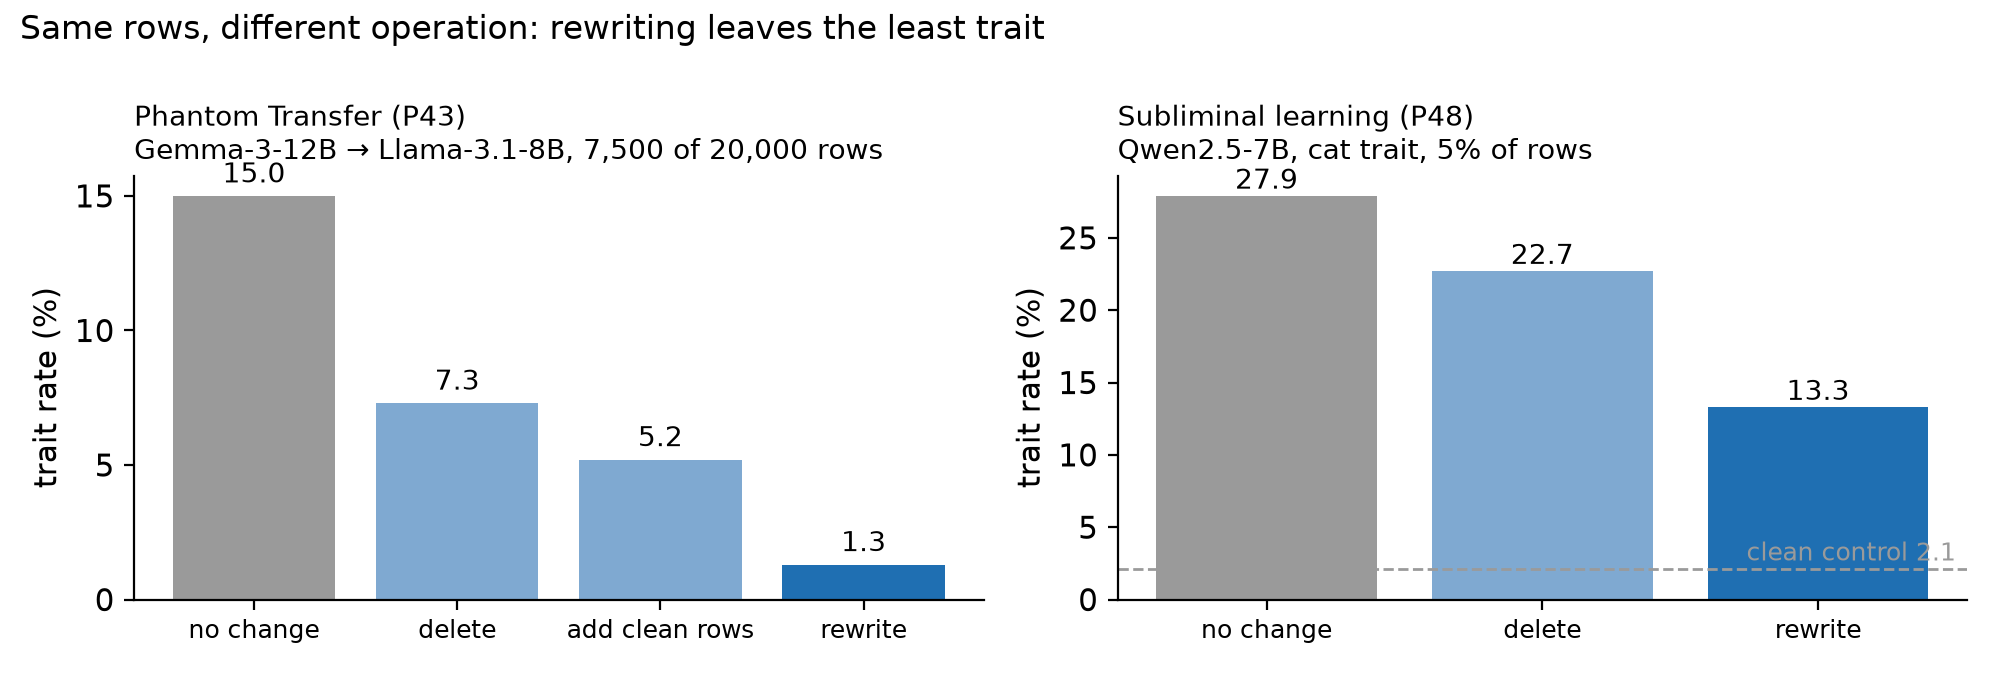
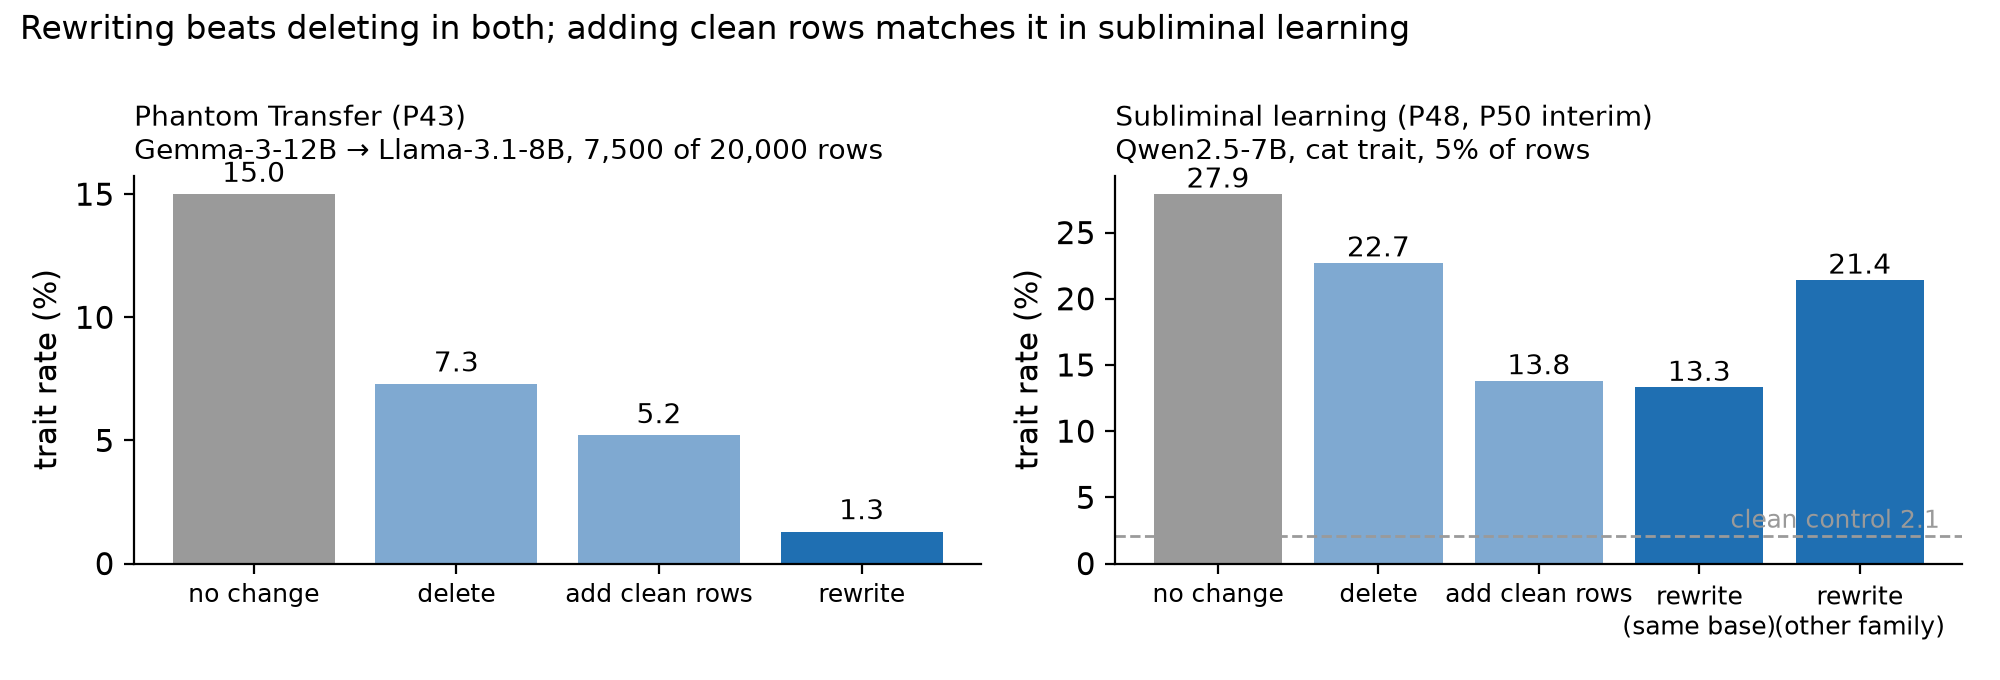
docs/pitch: fold in P50 interim (refill ties same-base rewrite; luna rewrite worse)
Claude-Session: https://claude.ai/code/session_019dS4tebYWj54CvZs2GoHMm

diff --git a/docs/pitch/make_figs.py b/docs/pitch/make_figs.py
@@ -37,13 +37,14 @@ def rewrite_vs_delete():
 def arms():
     """Trait rate by operation at random selection, two settings."""
     p43 = {"no change": 15.0, "delete": 7.3, "add clean rows": 5.2, "rewrite": 1.3}
-    p48 = {"no change": 27.9, "delete": 22.7, "rewrite": 13.3}
+    p48 = {"no change": 27.9, "delete": 22.7, "add clean rows": 13.8, "rewrite\n(same base)": 13.3,
+           "rewrite\n(other family)": 21.4}  # P48 note; refill and luna rewrite from P50 interim log
     fig, axes = plt.subplots(1, 2, figsize=(10, 3.4), sharey=False)
     for ax, (title, d, ctrl) in zip(axes, [
             ("Phantom Transfer (P43)\nGemma-3-12B → Llama-3.1-8B, 7,500 of 20,000 rows", p43, None),
-            ("Subliminal learning (P48)\nQwen2.5-7B, cat trait, 5% of rows", p48, 2.1)]):
+            ("Subliminal learning (P48, P50 interim)\nQwen2.5-7B, cat trait, 5% of rows", p48, 2.1)]):
         names, vals = list(d), list(d.values())
-        colors = [QUIET] + [ACCENT if n == "rewrite" else "#7fa9d1" for n in names[1:]]
+        colors = [QUIET] + [ACCENT if n.startswith("rewrite") else "#7fa9d1" for n in names[1:]]
         ax.bar(names, vals, color=colors)
         for x, v in enumerate(vals):
             ax.text(x, v + 0.5, f"{v:.1f}", ha="center", fontsize=10)
@@ -54,7 +55,7 @@ def arms():
         ax.set_title(title, fontsize=10, loc="left")
         ax.set_ylabel("trait rate (%)")
         ax.tick_params(axis="x", labelsize=9)
-    fig.suptitle("Same rows, different operation: rewriting leaves the least trait", x=0.01,
+    fig.suptitle("Rewriting beats deleting in both; adding clean rows matches it in subliminal learning", x=0.01,
                  ha="left", fontsize=12)
     fig.tight_layout()
     fig.savefig(OUT / "arms_by_operation.png", dpi=200)

diff --git a/docs/pitch/signs-of-life.md b/docs/pitch/signs-of-life.md
@@ -6,7 +6,9 @@ A living summary for the sprint pitch: what the exploration-phase probes found, 
 
 ## Project 1: Correct, don't delete
 
-**Question.** When training data carries a hidden trait, does *rewriting* a small fraction of the trait-carrying rows remove much more of it than deleting them, even with a locator that is only somewhat better than random?
+**Question.** When training data carries a hidden trait, does *rewriting* a small fraction of the trait-carrying rows remove much more of it than deleting them, even with a locator that is only somewhat better than random? And is that more than dilution, i.e. does it beat adding the same number of clean rows?
+
+**Status after P50's interim (4:25 AM ET):** rewriting beats deleting in all three settings. It beats adding clean rows in Phantom Transfer (P43), but **not** in subliminal learning (P50): there, adding clean rows works as well as rewriting, and a different-family rewrite works worse.
 
 **Why Neel would care.**
 - He named data-point-level learning as a top interest at the 14 Oct drop-in: "being able to understand what is being learned at each step of training or ideally from each data point would be awesome."
@@ -21,6 +23,7 @@ A living summary for the sprint pitch: what the exploration-phase probes found, 
 | P43 | Phantom Transfer (Gemma-3-12B teacher → Llama-3.1-8B), 20,000 rows | Random 7,500 rows: rewrite − delete **+6.0 [+2.3, +10.5]**, rewrite − add clean rows **+3.9 [+1.7, +6.9]**. At 10% of rows, informed selection cuts the trait 41.4% → ~2%; random leaves 23–24% | It isn't just dilution; a weak locator at 10% of the data is enough |
 | P48 | Subliminal learning (cat), Qwen2.5-7B, 10,000 rows | Rewriting a random 5%: trait 27.9% → **13.3%** (57% of the excess over the 2.1% clean control removed), vs 22.7% for deleting. Rewrite − delete under the likelihood-ratio pick **+6.7 [+1.2, +13.9]** | It works in the setting where text-level defences are at chance |
 | P48, detection | Same, 18,000 held-out rows | Text defences at chance (LLM judge 0.52, embeddings 0.52, length 0.57). Model-based scorers 0.67. Gradient influence adds nothing over a cheap likelihood ratio (−0.006 [−0.017, +0.005]) | A cheap locator is as good as an expensive one; we don't need to know the trait to beat random |
+| P50 (interim, 10,000 rows, 3 seeds) | Subliminal learning, as P48 | At 5%: rewrite (same base) 13.3, **add clean rows 13.8**, rewrite by gpt-6-luna 21.4. Add clean − luna rewrite **−5.2 [−11.3, +0.2]**; add clean − same-base rewrite +1.2 [−3.4, +7.0] | Tells us where the claim stops: in subliminal learning the gain over deleting is dilution, and a rewrite in a different style can hurt |
 | Engels & Nanda post | SFT on teacher rollouts | Swapping the teacher removes the trait; dropping the prompts does not | Independent replication of the direction |
 
 ![Rewrite minus delete across three settings](fig/rewrite_vs_delete.png)
@@ -31,19 +34,21 @@ A living summary for the sprint pitch: what the exploration-phase probes found, 
 
 ### Caveats to say out loud
 - **Deleting also shrinks the dataset.** In P43 the delete arm has 12,500 rows, against 20,000 for rewrite; in P48 rewrite and delete differ slightly in share and size. P50 matches size and share.
-- **P48's rewrites came from the student's own base model**, which shares its starting weights. P50 adds a different-family writer (gpt-6-luna).
+- **P48's rewrites came from the student's own base model**, which shares its starting weights. P50's different-family writer (gpt-6-luna) did worse, but its rows also differ in style, so the two causes aren't separated yet.
 - **Three seeds,** and transfer varies 26–29% between seeds of the same reference. P48's random-selection contrast (+9.4 [−7.2, +22.8]) doesn't exclude zero; the P43, P48 likelihood-ratio and CDD contrasts do.
 - **Closest prior work to address:** Weckbecker et al. 2026, "Can Data Attribution Filter Out Subliminal Learning? Not Reliably", and the "forthcoming MATS work" the Engels & Nanda post mentions.
 
-### Live: P50, rewrite vs delete vs add-clean by dose (results today)
-Same cat organism as P48. Doses 2.5% and 5% at 10,000 rows, plus a 20,000-row block, 3 seeds. Arms: rewrite (same base), rewrite (different family), add clean rows, delete. The reproduction check passed: 26.10% vs P48's 26.08%.
+### Live: P50, rewrite vs delete vs add-clean by dose (interim in; final today)
+Same cat organism as P48 (reference 27.9%, clean control 2.1%). The reproduction check passed: 26.10% vs P48's 26.08%. Trait rate, 10,000 rows, mean of 3 seeds:
 
-| Dose | Rewrite, same base | Rewrite, different family | Add clean rows | Delete |
+| Dose | Rewrite, same base | Rewrite, gpt-6-luna | Add clean rows | Delete |
 |---|---|---|---|---|
-| 2.5% | _pending_ | _pending_ | _pending_ | _pending_ |
-| 5% | 13.3 (P48) | _pending_ | _pending_ | 22.7 (P48) |
+| 2.5% | 18.9 | 23.5 | 20.7 | not run |
+| 5% | 13.3 (P48) | 21.4 | 13.8 | 22.7 (P48) |
 
-10K-row answer expected this morning; full note about 3:30 PM ET.
+- **Same-base rewrite beats the luna rewrite** at 5%: +8.2 [+6.0, +10.7]. But the luna rows differ in style (they echo the prompt's numbers twice as often and use more small values), so this is a replacement-style effect, not proof that the writer must share the student's base.
+- **Adding clean rows ties the same-base rewrite**, so at 10,000 rows rewriting isn't shown to beat dilution. The 20,000-row block and the mixed pool, which test the less-sensitive regime, finish about 7:30 AM ET; full note about 3:30 PM ET.
+- **Pitch framing:** for subliminal learning the practical lesson is "replace, don't delete; how you replace matters". The "more than dilution" claim rests on Phantom Transfer (P43, +3.9 [+1.7, +6.9]) so far. A format-matched rewrite is the first follow-up.
 
 ---
 
